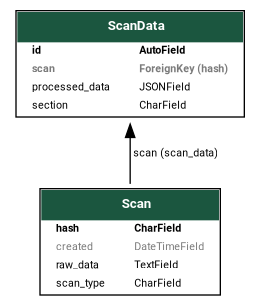
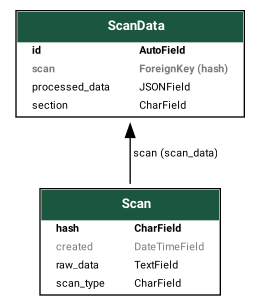
Merge pull request #283 from ppfeufer/release/v3.1.0
[RELEASE] v3.1.0

Pull request: [RELEASE] v3.1.0
## [3.1.0] - 2026-06-02

### Fixed

- Grammar - No space before ellipsis

### Changed

- Modular providers
- Translations updated

diff --git a/aa_intel_tool/__init__.py b/aa_intel_tool/__init__.py
@@ -5,7 +5,7 @@ App init
 # Django
 from django.utils.translation import gettext_lazy as _
 
-__version__ = "3.0.2"
+__version__ = "3.1.0"
 __title__ = "Intel Parser"
 __title_translated__ = _("Intel Parser")
 __verbose_name__ = "Intel Parser for Alliance Auth"

diff --git a/CHANGELOG.md b/CHANGELOG.md
@@ -44,6 +44,8 @@ Section Order:
 
 <!-- Your changes go here -->
 
+## [3.1.0] - 2026-06-02
+
 ### Fixed
 
 - Grammar - No space before ellipsis
@@ -51,6 +53,7 @@ Section Order:
 ### Changed
 
 - Modular providers
+- Translations updated
 
 ## [3.0.2] - 2026-05-05
 
@@ -800,6 +803,7 @@ Hopefully the last one before official release…
 [3.0.0]: https://github.com/ppfeufer/aa-intel-tool/compare/v2.13.1...v3.0.0 "v3.0.0"
 [3.0.1]: https://github.com/ppfeufer/aa-intel-tool/compare/v3.0.0...v3.0.1 "v3.0.1"
 [3.0.2]: https://github.com/ppfeufer/aa-intel-tool/compare/v3.0.1...v3.0.2 "v3.0.2"
-[in development]: https://github.com/ppfeufer/aa-intel-tool/compare/v3.0.2...HEAD "In Development"
+[3.1.0]: https://github.com/ppfeufer/aa-intel-tool/compare/v3.0.2...v3.1.0 "v3.1.0"
+[in development]: https://github.com/ppfeufer/aa-intel-tool/compare/v3.1.0...HEAD "In Development"
 [keep a changelog]: http://keepachangelog.com/ "Keep a Changelog"
 [semantic versioning]: http://semver.org/ "Semantic Versioning"

diff --git a/README.md b/README.md
@@ -92,7 +92,7 @@ Make sure you're in the virtual environment (venv) of your Alliance Auth
 installation Then install the latest release directly from PyPi.
 
 ```shell
-pip install aa-intel-tool==3.0.2
+pip install aa-intel-tool==3.1.0
 ```
 
 ### Step 2: Configure Alliance Auth<a name="step-2-configure-alliance-auth"></a>